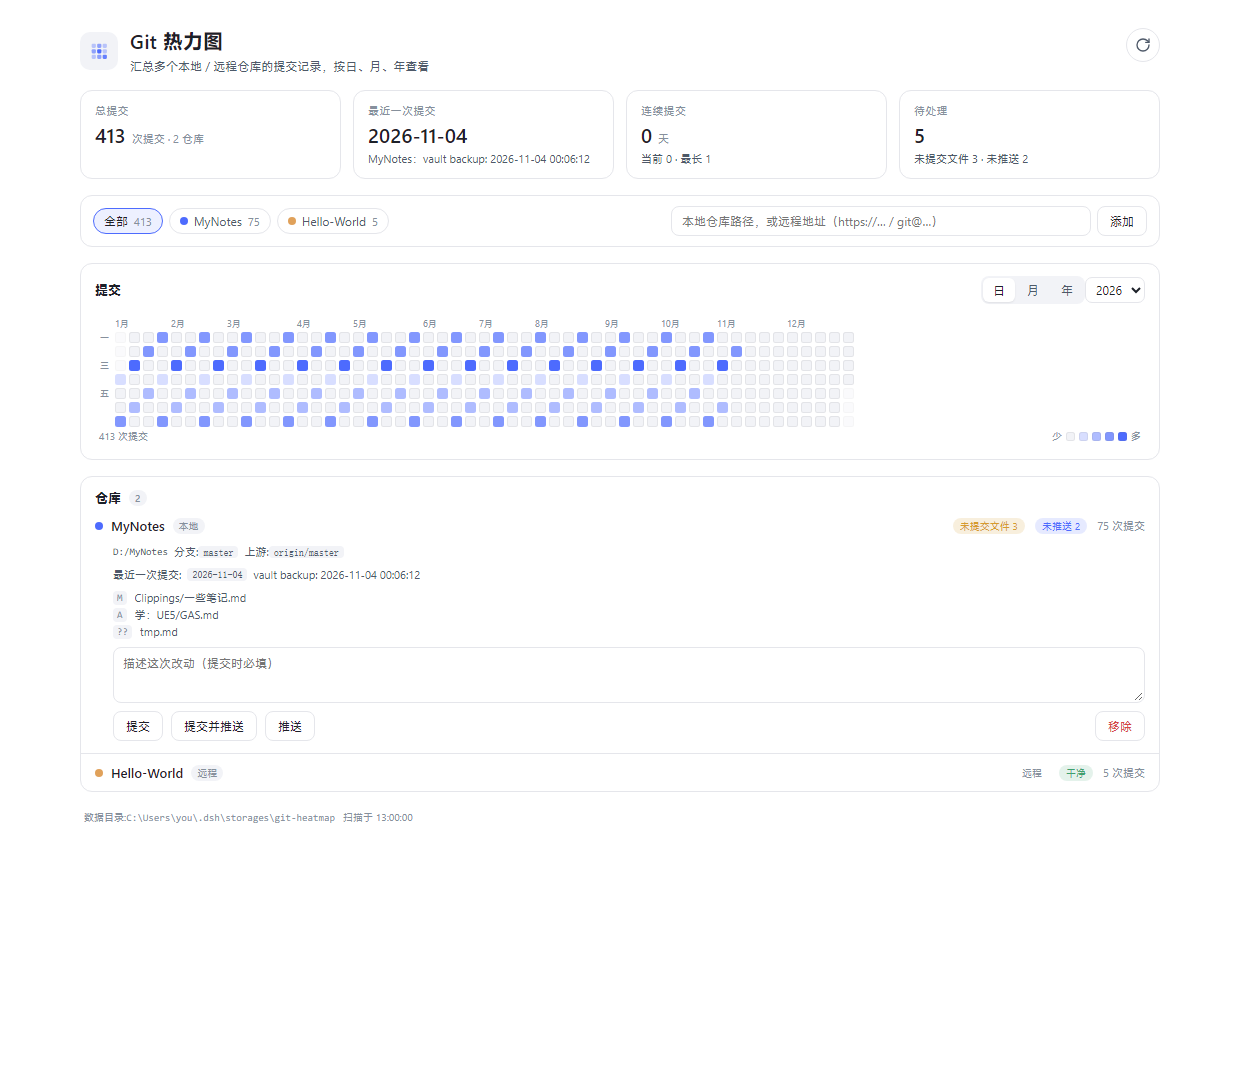
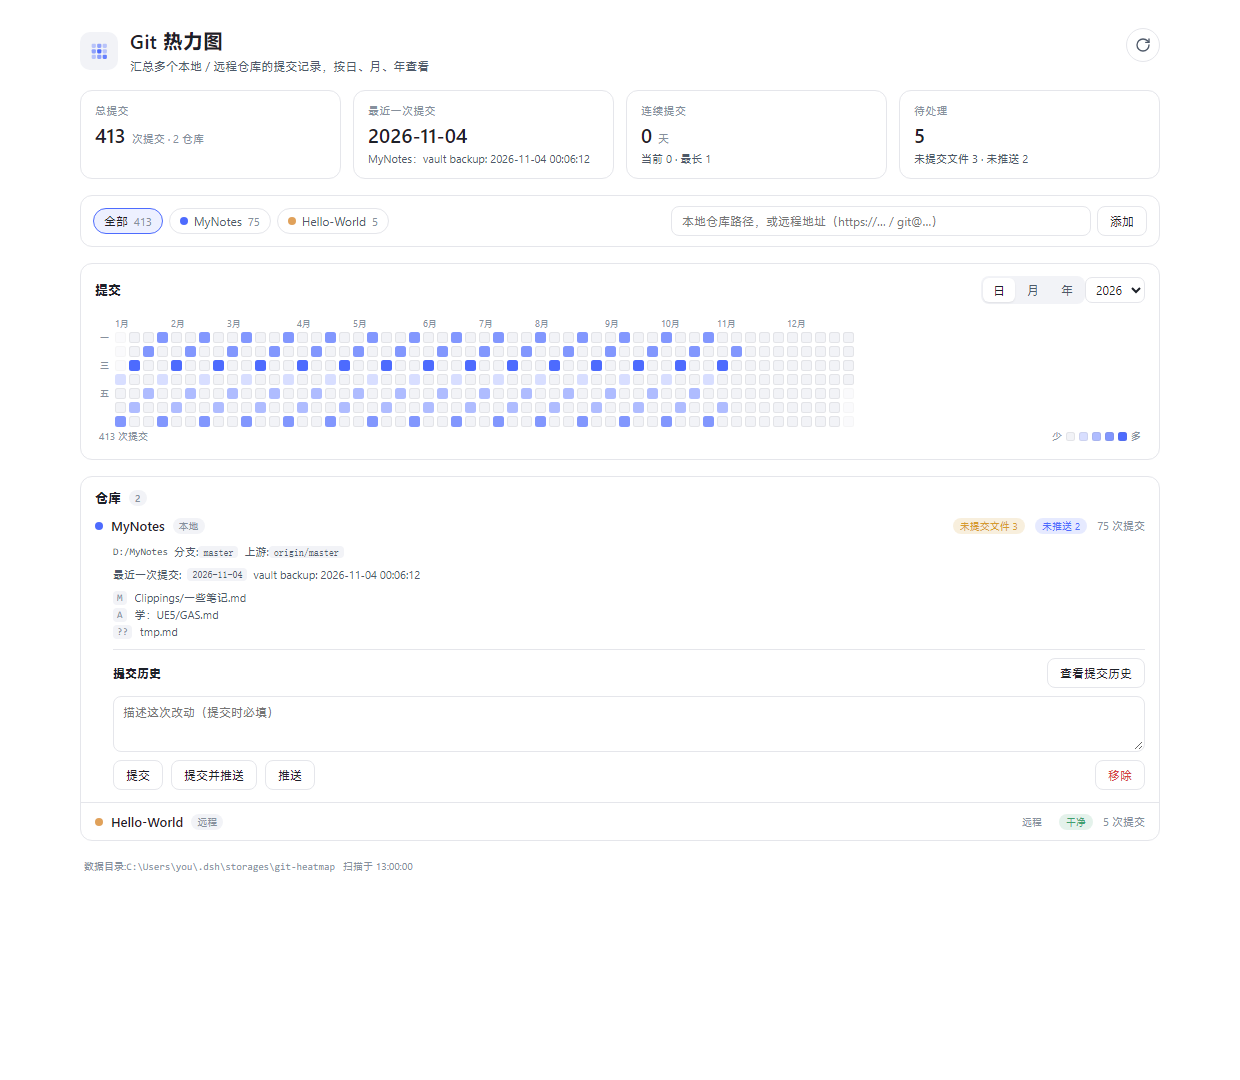
feat: 支持查看各仓库的提交历史（0.2.0）
- 宿主半侧新增 POST /git-heat/api/log：git log --all --decorate=short，
  字段用 \x1f/\x1e 分隔，--skip 分页，附带 rev-list --count 总数，只读、不含 diff
- 浏览器半侧：仓库行展开后显示提交历史（日期 / 短 hash / 提交信息 / 分支与 tag 标签 / 作者），
  首次展开自动加载一页 30 条，支持“加载更多”“重新加载”，刷新后历史缓存作废
- 测试：宿主的 log 分页与倒序、未知仓库报错；客户端渲染历史行
- README 与截图更新（docs/commits.png），版本 0.2.0

diff --git a/lib/client.js b/lib/client.js
@@ -79,6 +79,14 @@ window.__ModuleLoader__.load({
       days: '天',
       since: '起始于',
       lastScan: '扫描于',
+      history: '提交历史',
+      loadHistory: '查看提交历史',
+      reloadHistory: '重新加载',
+      loadMore: '加载更多',
+      loading: '加载中…',
+      noCommits: '这个仓库还没有提交',
+      commitsTotal: '共 {n} 条',
+      noSubject: '（无提交信息）',
       refreshed: '已刷新',
       added: '已添加',
       removed: '已移除',
@@ -143,6 +151,14 @@ window.__ModuleLoader__.load({
       days: 'days',
       since: 'since',
       lastScan: 'scanned',
+      history: 'Commit history',
+      loadHistory: 'Show commit history',
+      reloadHistory: 'Reload',
+      loadMore: 'Load more',
+      loading: 'Loading…',
+      noCommits: 'No commits yet',
+      commitsTotal: '{n} commits',
+      noSubject: '(no message)',
       refreshed: 'Refreshed',
       added: 'Added',
       removed: 'Removed',
@@ -274,6 +290,26 @@ window.__ModuleLoader__.load({
 .ghm-file-code{font-family:ui-monospace,SFMono-Regular,Menlo,Consolas,monospace;font-size:10px;color:var(--dsw-alias-label-tertiary);
   background:var(--dsw-alias-bg-layer-2);border-radius:4px;padding:1px 4px;flex:none;}
 .ghm-file-path{overflow:hidden;text-overflow:ellipsis;white-space:nowrap;}
+.ghm-history{display:flex;flex-direction:column;gap:6px;border-top:1px solid var(--dsw-alias-border-l1);
+  padding-top:8px;margin-top:2px;}
+.ghm-history-head{display:flex;align-items:center;gap:8px;font-size:12px;}
+.ghm-history-title{font-weight:600;}
+.ghm-history-list{display:flex;flex-direction:column;max-height:280px;overflow:auto;
+  border:1px solid var(--dsw-alias-border-l1);border-radius:8px;}
+.ghm-commit{display:flex;align-items:center;gap:8px;padding:5px 9px;font-size:11px;
+  border-top:1px solid var(--dsw-alias-border-l1);}
+.ghm-commit:first-child{border-top:none;}
+.ghm-commit:hover{background:var(--dsw-alias-bg-layer-2);}
+.ghm-commit-date{color:var(--dsw-alias-label-tertiary);font-variant-numeric:tabular-nums;white-space:nowrap;flex:none;}
+.ghm-commit-hash{font-family:ui-monospace,SFMono-Regular,Menlo,Consolas,monospace;font-size:10px;
+  color:var(--dsw-alias-brand-primary);flex:none;}
+.ghm-commit-subject{flex:1;min-width:0;color:var(--dsw-alias-label-primary);overflow:hidden;
+  text-overflow:ellipsis;white-space:nowrap;}
+.ghm-commit-refs{display:inline-flex;gap:3px;flex-wrap:wrap;flex:none;max-width:180px;overflow:hidden;}
+.ghm-ref{font-size:9px;padding:0 4px;border-radius:3px;background:rgba(77,107,254,.14);
+  color:var(--dsw-alias-brand-primary);white-space:nowrap;}
+.ghm-commit-author{color:var(--dsw-alias-label-tertiary);font-size:10px;flex:none;max-width:120px;
+  overflow:hidden;text-overflow:ellipsis;white-space:nowrap;}
 .ghm-textarea{width:100%;min-height:56px;resize:vertical;padding:7px 9px;border-radius:8px;
   border:1px solid var(--dsw-alias-border-l1);background:var(--dsw-alias-bg-base);color:var(--dsw-alias-label-primary);
   font-size:12px;font-family:inherit;box-sizing:border-box;}
@@ -301,6 +337,15 @@ window.__ModuleLoader__.load({
       return new Date(y, (m ?? 1) - 1, d ?? 1)
     }
     const isNextDay = (prevKey, key) => dayKey(shiftDay(parseDay(prevKey), 1)) === key
+
+    /** "2026-11-04T12:34:56+08:00" → 本年显示 "11-04 12:34"，跨年显示完整日期。 */
+    function formatCommitDate(iso) {
+      const text = String(iso || '')
+      if (text.length < 16) return text
+      const day = text.slice(0, 10)
+      const time = text.slice(11, 16)
+      return day.slice(0, 4) === String(new Date().getFullYear()) ? `${day.slice(5)} ${time}` : `${day} ${time}`
+    }
 
     const REPO_COLORS = ['#4D6BFE', '#E0A15A', '#5FB98F', '#C4708F', '#8E7EF2', '#5FA8D3', '#C5A253', '#7C8B99']
 
@@ -612,7 +657,7 @@ window.__ModuleLoader__.load({
 
     // ── 仓库行 ──────────────────────────────────────────────
     function RepoRow(props) {
-      const { repo, index, expanded, t, onToggle, onRemove, onCommit, busy } = props
+      const { repo, index, expanded, t, onToggle, onRemove, onCommit, busy, history, onLoadHistory } = props
       const [message, setMessage] = useState('')
       const dirty = repo.dirty ?? 0
       const ahead = repo.ahead ?? 0
@@ -665,6 +710,53 @@ window.__ModuleLoader__.load({
           ) : null,
           repo.kind === 'local' && dirty === 0 ? h('div', { className: 'ghm-kv' }, t('noChanges')) : null,
           repo.kind === 'remote' ? h('div', { className: 'ghm-kv' }, t('remoteReadonly')) : null,
+          h('div', { className: 'ghm-history' },
+            h('div', { className: 'ghm-history-head' },
+              h('span', { className: 'ghm-history-title' }, t('history')),
+              history && history.total != null
+                ? h('span', { className: 'ghm-badge' }, t('commitsTotal').replace('{n}', String(history.total)))
+                : null,
+              h('span', { style: { flex: 1 } }),
+              h('button', {
+                type: 'button',
+                className: 'ghm-btn ghm-btn-ghost',
+                disabled: !!(history && history.loading),
+                onClick: () => onLoadHistory(repo, true),
+              }, history && history.loading
+                ? t('loading')
+                : (history && history.commits && history.commits.length ? t('reloadHistory') : t('loadHistory')))),
+            history && history.error
+              ? h('div', { className: 'ghm-kv', style: { color: 'var(--dsw-alias-state-error-primary)' } }, history.error)
+              : null,
+            history && history.commits && history.commits.length > 0
+              ? h('div', { className: 'ghm-history-list' },
+                history.commits.map((commit) => h('div', {
+                  key: commit.hash,
+                  className: 'ghm-commit',
+                  title: `${commit.hash}
+${commit.author}
+${commit.date}`,
+                },
+                h('span', { className: 'ghm-commit-date' }, formatCommitDate(commit.date)),
+                h('span', { className: 'ghm-commit-hash' }, commit.short),
+                h('span', { className: 'ghm-commit-subject' }, commit.subject || t('noSubject')),
+                commit.refs
+                  ? h('span', { className: 'ghm-commit-refs' }, commit.refs.split(',').slice(0, 2).map((ref, refIndex) => h('span', { key: `r${refIndex}`, className: 'ghm-ref' }, ref.trim())))
+                  : null,
+                h('span', { className: 'ghm-commit-author' }, commit.author))))
+              : null,
+            history && history.commits && history.commits.length === 0 && !history.loading && !history.error
+              ? h('div', { className: 'ghm-kv' }, t('noCommits'))
+              : null,
+            history && history.hasMore
+              ? h('button', {
+                type: 'button',
+                className: 'ghm-btn ghm-btn-ghost',
+                disabled: !!history.loading,
+                onClick: () => onLoadHistory(repo, false),
+              }, history.loading ? t('loading') : t('loadMore'))
+              : null,
+          ),
           repo.kind === 'local' ? h('div', { className: 'ghm-row-actions', style: { flexDirection: 'column', alignItems: 'stretch' } },
             h('textarea', {
               className: 'ghm-textarea',
@@ -724,6 +816,7 @@ window.__ModuleLoader__.load({
       const [expanded, setExpanded] = useState(null)
       const [grain, setGrain] = useState('day')
       const [year, setYear] = useState(new Date().getFullYear())
+      const [history, setHistory] = useState({})
 
       useEffect(() => {
         let alive = true
@@ -770,6 +863,7 @@ window.__ModuleLoader__.load({
         try {
           const result = await api('refresh')
           if (result.state) setData(result.state)
+          setHistory({})
           const problems = (result.notes ?? []).filter((note) => note.level !== 'ok')
           const done = (result.notes ?? []).filter((note) => note.level === 'ok')
           if (problems.length > 0) setError(problems.map((note) => note.message).join('；'))
@@ -810,6 +904,12 @@ window.__ModuleLoader__.load({
           setData(state)
           if (focus === repo.id) setFocus(null)
           if (expanded === repo.id) setExpanded(null)
+          setHistory((current) => {
+            if (!current[repo.id]) return current
+            const next = { ...current }
+            delete next[repo.id]
+            return next
+          })
           setNotice(`${t('removed')} ${repo.label}`)
         } catch (err) {
           setError(err instanceof Error ? err.message : String(err))
@@ -837,9 +937,54 @@ window.__ModuleLoader__.load({
         }
       }
 
+      const loadHistory = async (repo, reset) => {
+        const previous = history[repo.id]
+        const skip = reset || !previous ? 0 : (previous.commits ? previous.commits.length : 0)
+        setHistory((current) => ({
+          ...current,
+          [repo.id]: { ...(current[repo.id] || { commits: [] }), loading: true, error: '' },
+        }))
+        try {
+          const value = await api('log', { id: repo.id, skip, limit: 30 })
+          setHistory((current) => {
+            const prior = reset ? [] : ((current[repo.id] && current[repo.id].commits) || [])
+            return {
+              ...current,
+              [repo.id]: {
+                commits: prior.concat(value.commits || []),
+                hasMore: !!value.hasMore,
+                total: value.total,
+                loading: false,
+                error: '',
+              },
+            }
+          })
+        } catch (err) {
+          setHistory((current) => ({
+            ...current,
+            [repo.id]: {
+              ...(current[repo.id] || { commits: [] }),
+              loading: false,
+              error: err instanceof Error ? err.message : String(err),
+            },
+          }))
+        }
+      }
+
+      /** 展开某个仓库；第一次展开时顺手拉一页提交历史。 */
+      const openRepo = (repo) => {
+        setExpanded(repo.id)
+        setFocus(repo.id)
+        if (!history[repo.id]) loadHistory(repo, true)
+      }
+
       const toggleRepo = (repo) => {
-        setExpanded((current) => (current === repo.id ? null : repo.id))
-        setFocus((current) => (current === repo.id ? null : repo.id))
+        if (expanded === repo.id) {
+          setExpanded(null)
+          setFocus(null)
+          return
+        }
+        openRepo(repo)
       }
 
       const tab = (id, label) => h('button', {
@@ -922,10 +1067,7 @@ window.__ModuleLoader__.load({
                 key: repo.id,
                 type: 'button',
                 className: `ghm-chip${focus === repo.id ? ' is-active' : ''}`,
-                onClick: () => {
-                  setFocus(repo.id)
-                  setExpanded(repo.id)
-                },
+                onClick: () => openRepo(repo),
                 title: repo.source,
               },
               h('span', { className: 'ghm-dot', style: { background: colorOf(index) } }),
@@ -984,6 +1126,8 @@ window.__ModuleLoader__.load({
                 onToggle: () => toggleRepo(repo),
                 onRemove,
                 onCommit,
+                history: history[repo.id],
+                onLoadHistory: loadHistory,
               }))),
           ),
 

diff --git a/lib/index.js b/lib/index.js
@@ -506,6 +506,67 @@ async function commitRepo(id, message, push) {
   return { ok: true, committed, pushed, output: output.filter(Boolean).join('\n') }
 }
 
+/** 读某个仓库的提交历史（只读，不含 diff）。
+ *
+ *  `git log --all --decorate=short` 按提交时间倒序输出；每个字段用  分隔、
+ *  每条记录用  结尾，这样 commit message 里出现制表符/换行也不会把解析搞乱。
+ *  `--skip` 做分页，`-n limit+1` 用来判断还有没有下一页。 */
+async function logCommits(id, options) {
+  const repos = await loadRepos()
+  const repo = repos.find((item) => item.id === id)
+  if (!repo) throw httpError(404, '仓库不在列表里')
+
+  const dir = repo.kind === 'local' ? repo.source : cloneDir(repo.id)
+  if (!(await dirExists(dir))) {
+    throw httpError(400, repo.kind === 'remote' ? '尚未克隆，点刷新拉取' : '目录不存在')
+  }
+
+  const limit = Math.min(200, Math.max(1, Number(options?.limit) || 40))
+  const skip = Math.min(200_000, Math.max(0, Number(options?.skip) || 0))
+  const format = ['%H', '%h', '%ad', '%an', '%D', '%s'].join('%x1f') + '%x1e'
+
+  const result = await git(dir, [
+    '--no-optional-locks',
+    'log',
+    '--all',
+    '--decorate=short',
+    '--date=iso-strict',
+    `--pretty=format:${format}`,
+    '-n', String(limit + 1),
+    '--skip', String(skip),
+  ], { timeout: 120_000 })
+
+  if (!result.ok) {
+    if (/does not have any commits|unknown revision|bad default revision/i.test(result.stderr)) {
+      return { repo: { id: repo.id, label: repo.label }, commits: [], hasMore: false, total: 0 }
+    }
+    throw httpError(400, cleanGitError(result.stderr))
+  }
+
+  const records = result.stdout.split('').map((chunk) => chunk.trim()).filter(Boolean)
+  const commits = records.slice(0, limit).map((record) => {
+    const [hash, short, date, author, refs, ...rest] = record.split('')
+    return {
+      hash: hash ?? '',
+      short: short ?? '',
+      date: date ?? '',
+      author: author ?? '',
+      refs: (refs ?? '').trim(),
+      subject: rest.join('').trim(),
+    }
+  })
+
+  const countResult = await git(dir, ['rev-list', '--count', '--all'], { timeout: 60_000 })
+  const total = countResult.ok ? (Number(countResult.stdout.trim()) || 0) : null
+
+  return {
+    repo: { id: repo.id, label: repo.label },
+    commits,
+    hasMore: records.length > limit,
+    total,
+  }
+}
+
 // ─────────────────────────────────────────────────────────────
 // 浏览器信任栅栏（与官方 /api 网关同样的三道检查）
 // ─────────────────────────────────────────────────────────────
@@ -656,6 +717,11 @@ function createApi(ctx) {
         const notes = await refreshRemotes(repos)
         invalidate()
         writeOk(res, { notes, state: await state(true) })
+        return
+      }
+      if (endpoint === 'log' && method === 'POST') {
+        const body = await readBody(req)
+        writeOk(res, await logCommits(String(body.id ?? ''), body))
         return
       }
       if (endpoint === 'commit' && method === 'POST') {

diff --git a/README.md b/README.md
@@ -14,10 +14,14 @@
 - **日 / 月 / 年三种粒度**：日视图是 7×N 周历（可切年份），月视图按年 × 12 个月，年视图一年一格。
 - **刷新**：只对远程条目 `git fetch`（没有克隆就先 `clone --bare --filter=blob:none`）；**本地仓库不 fetch**，只重扫已有历史。
 - **统计小卡**：总提交、最近一次提交（仓库 + 日期 + 标题）、当前 / 最长连续提交天数、未提交文件数与未推送提交数。
+- **提交历史**：展开任意仓库即可看到该仓库的提交历史（日期 / 短 hash / 提交信息 / 分支与 tag 标记 / 作者），
+  分页加载（每页 30 条），只读、不含每次提交的具体改动。
 - **面板内提交 / 推送**：展开仓库行即可操作。`提交` = `git add -A` + `git commit -m`；`提交并推送` 再加 `git push`（无上游时 `push -u origin HEAD`）。**永远不带 `--force`**，远程条目是只读裸库、不能提交。
 - **远程仓库不需要 token**：走 bare 克隆（不存文件内容），GitHub / Gitee / 自建 GitLab / ssh 地址通用。
 
 ![日视图](docs/day.png)
+
+![提交历史](docs/commits.png)
 
 ## 安装
 
@@ -29,7 +33,7 @@ dsh plugin --profile <profile> add dsh-git-heatmap
 dsh plugin --profile <profile> add github:<user>/dsh-git-heatmap
 
 # 本地打好的 tgz
-dsh plugin --profile <profile> add <路径>/dsh-git-heatmap-0.1.0.tgz
+dsh plugin --profile <profile> add <路径>/dsh-git-heatmap-0.2.0.tgz
 ```
 
 Desktop 版：在 **插件** 页搜索包名安装，或按上面的 `dsh plugin` 命令装进 Desktop 使用的 profile
@@ -40,7 +44,8 @@ Desktop 版：在 **插件** 页搜索包名安装，或按上面的 `dsh plugin
 1. 左侧栏点「Git 热力图」。
 2. 输入框填**本地仓库绝对路径**（如 `D:\code\my-project`）或**远程地址**（`https://…` / `git@…`），回车添加。
 3. 点右上角圆形箭头刷新。
-4. 点仓库行展开，填提交信息后可提交 / 推送；点 `移除` 把仓库从列表删掉（远程条目会连带删掉裸克隆缓存）。
+4. 点仓库行展开：上半部分是**提交历史**（首次展开自动加载一页，`加载更多` 翻页，`重新加载` 刷新），
+   下半部分填提交信息后可提交 / 推送；点 `移除` 把仓库从列表删掉（远程条目会连带删掉裸克隆缓存）。
 
 ## 兼容性
 
@@ -56,7 +61,7 @@ Desktop 版：在 **插件** 页搜索包名安装，或按上面的 `dsh plugin
 
 ## 它会不会动你的仓库？
 
-- **扫描是只读的**：`git log` / `rev-list` / `symbolic-ref` / `rev-parse` / `remote` 都不写盘；唯一有副作用风险的 `git status` 用了 `git --no-optional-locks status --porcelain`，实测扫描前后 `.git/index` 的大小与 mtime 完全不变。
+- **扫描与提交历史都是只读的**：`git log` / `rev-list` / `symbolic-ref` / `rev-parse` / `remote` 都不写盘；唯一有副作用风险的 `git status` 用了 `git --no-optional-locks status --porcelain`，实测扫描前后 `.git/index` 的大小与 mtime 完全不变。
 - **刷新只 fetch 远程条目**：不往你自己的仓库里拉对象、不动 `refs/remotes`。本地仓库要看到远端新提交，自己在终端 fetch 一次再点刷新即可。
 - **写操作只有两个按钮**：提交、推送；没有后台写入、没有定时任务、没有遥测。
 - **数据目录**：`%USERPROFILE%\.dsh\storages\git-heatmap\`
@@ -81,6 +86,7 @@ Desktop 版：在 **插件** 页搜索包名安装，或按上面的 `dsh plugin
 | `POST /git-heat/api/add` | `{ input }` 添加本地路径或远程地址 |
 | `POST /git-heat/api/remove` | `{ id }` 移除（远程裸克隆一并删除） |
 | `POST /git-heat/api/refresh` | 只 fetch/克隆远程条目，然后强制重扫全部仓库 |
+| `POST /git-heat/api/log` | `{ id, limit?, skip? }` 某仓库的提交历史（分页，只读，无 diff） |
 | `POST /git-heat/api/commit` | `{ id, message, push }` 提交 / 推送 |
 
 请求带与官方 `/api` 网关同样的三道检查：Host 必须是回环 / 本机绑定地址 / `trustedHosts`、
